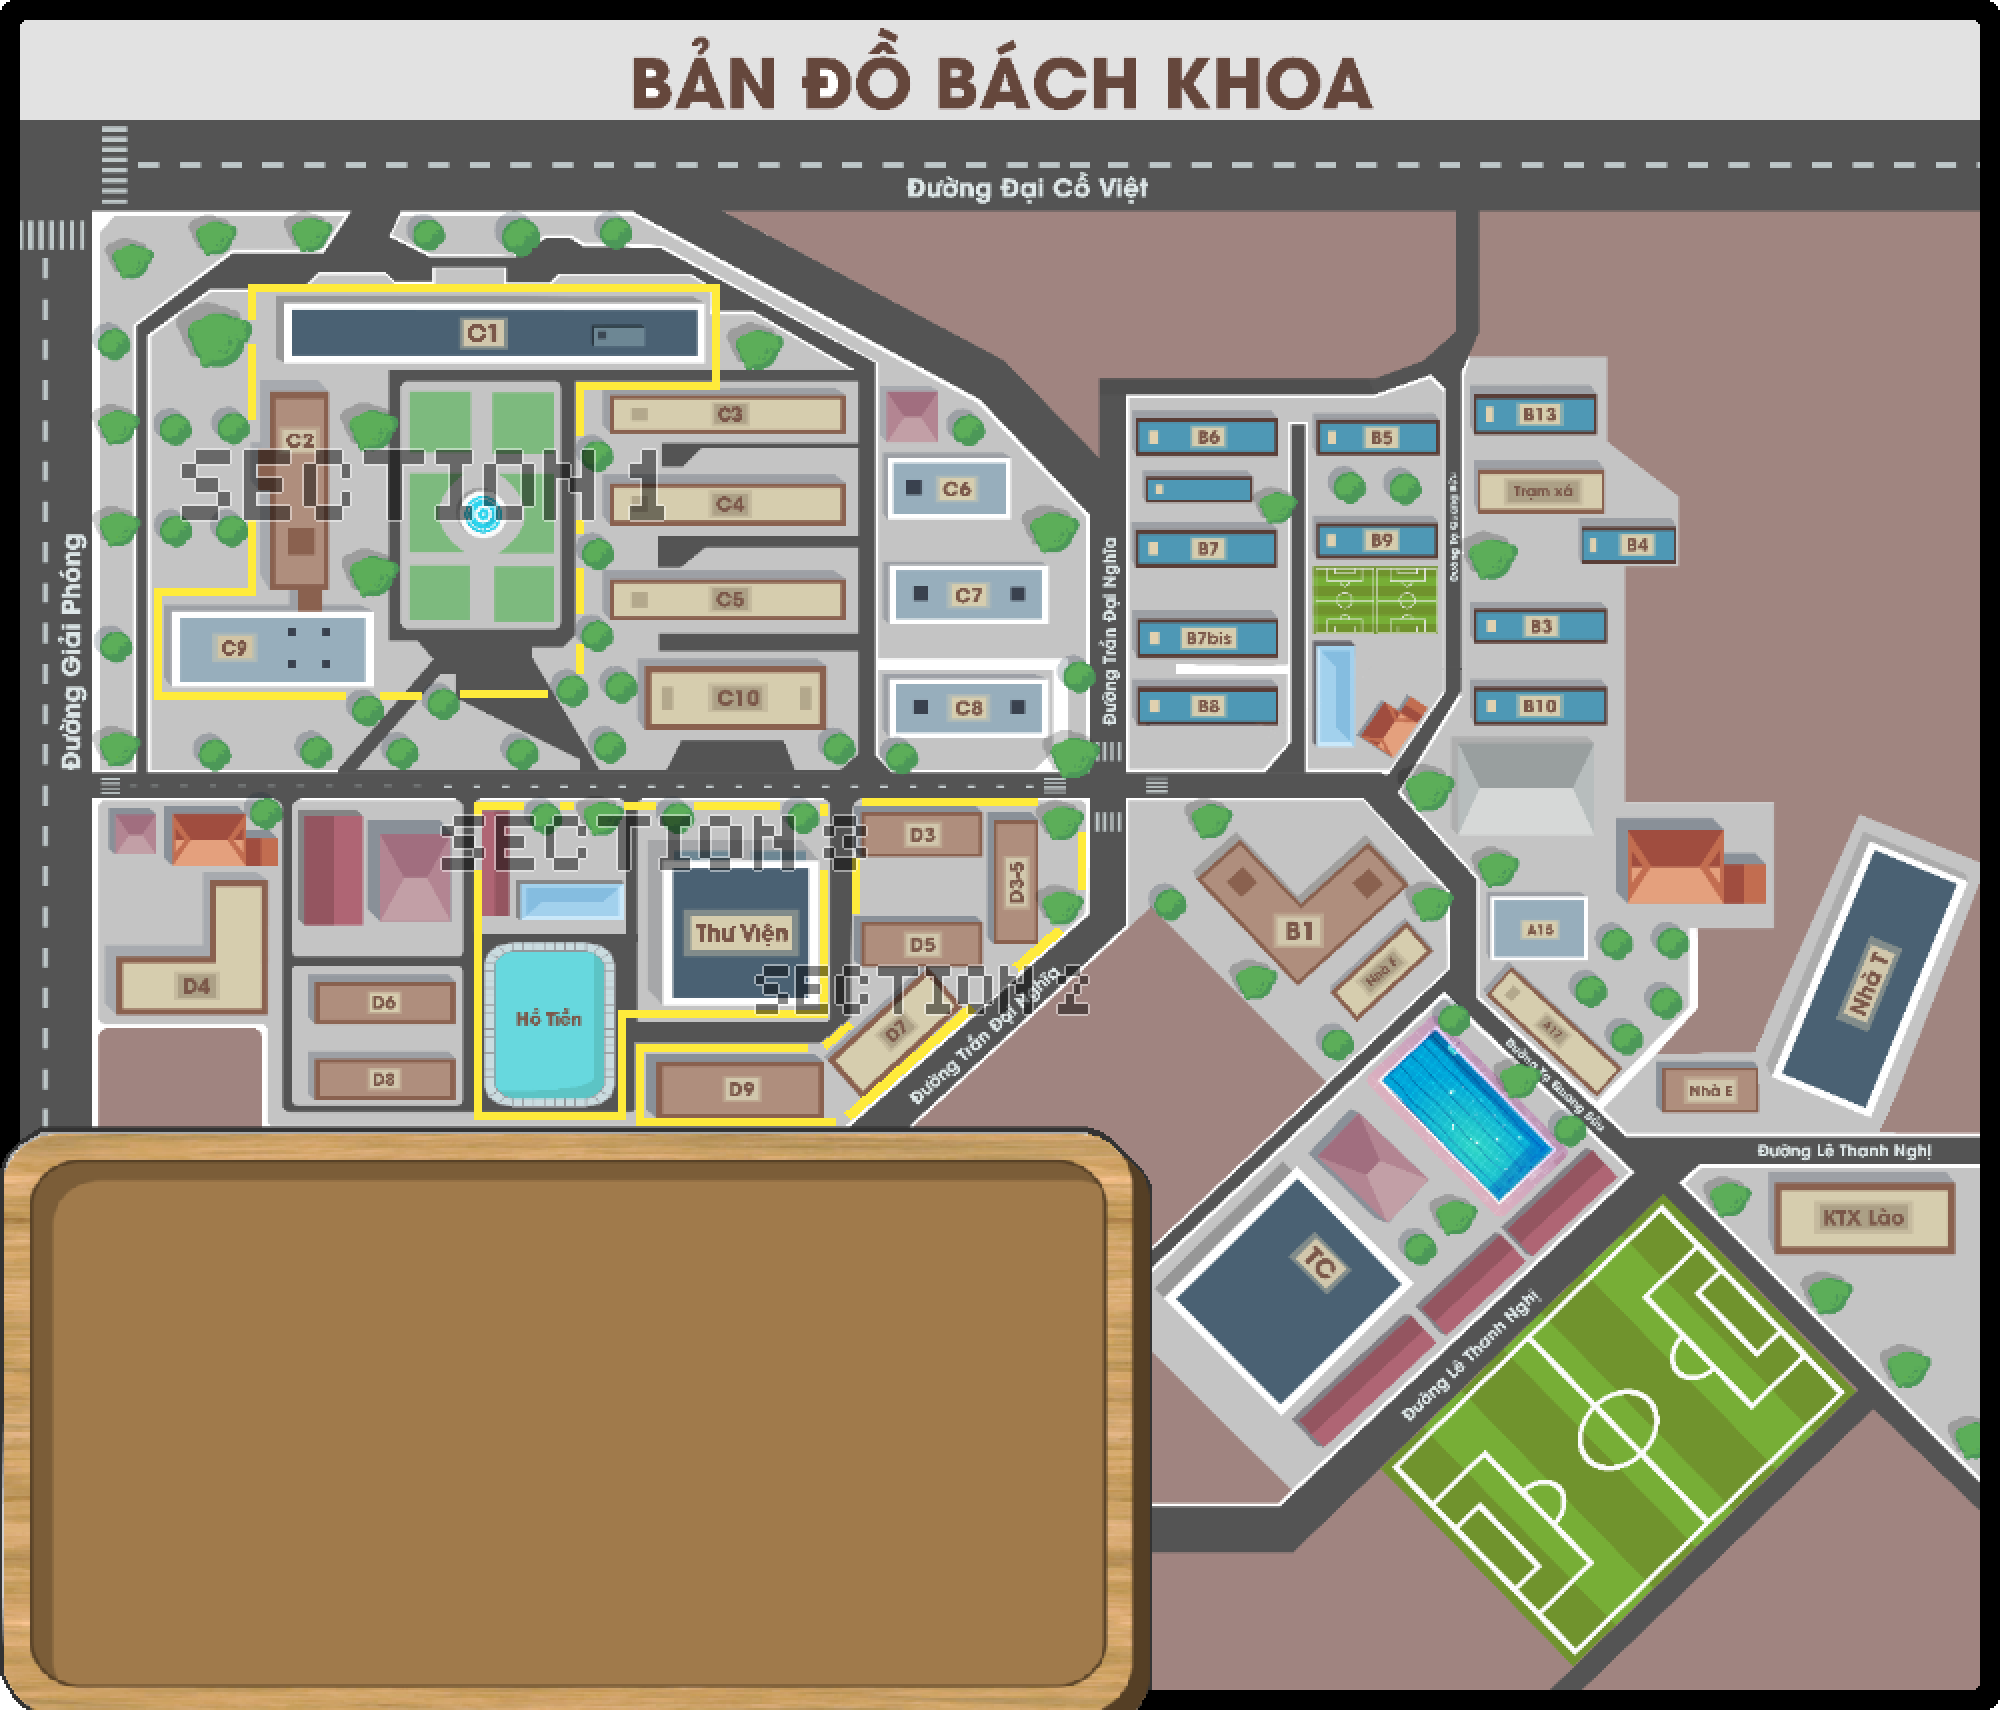
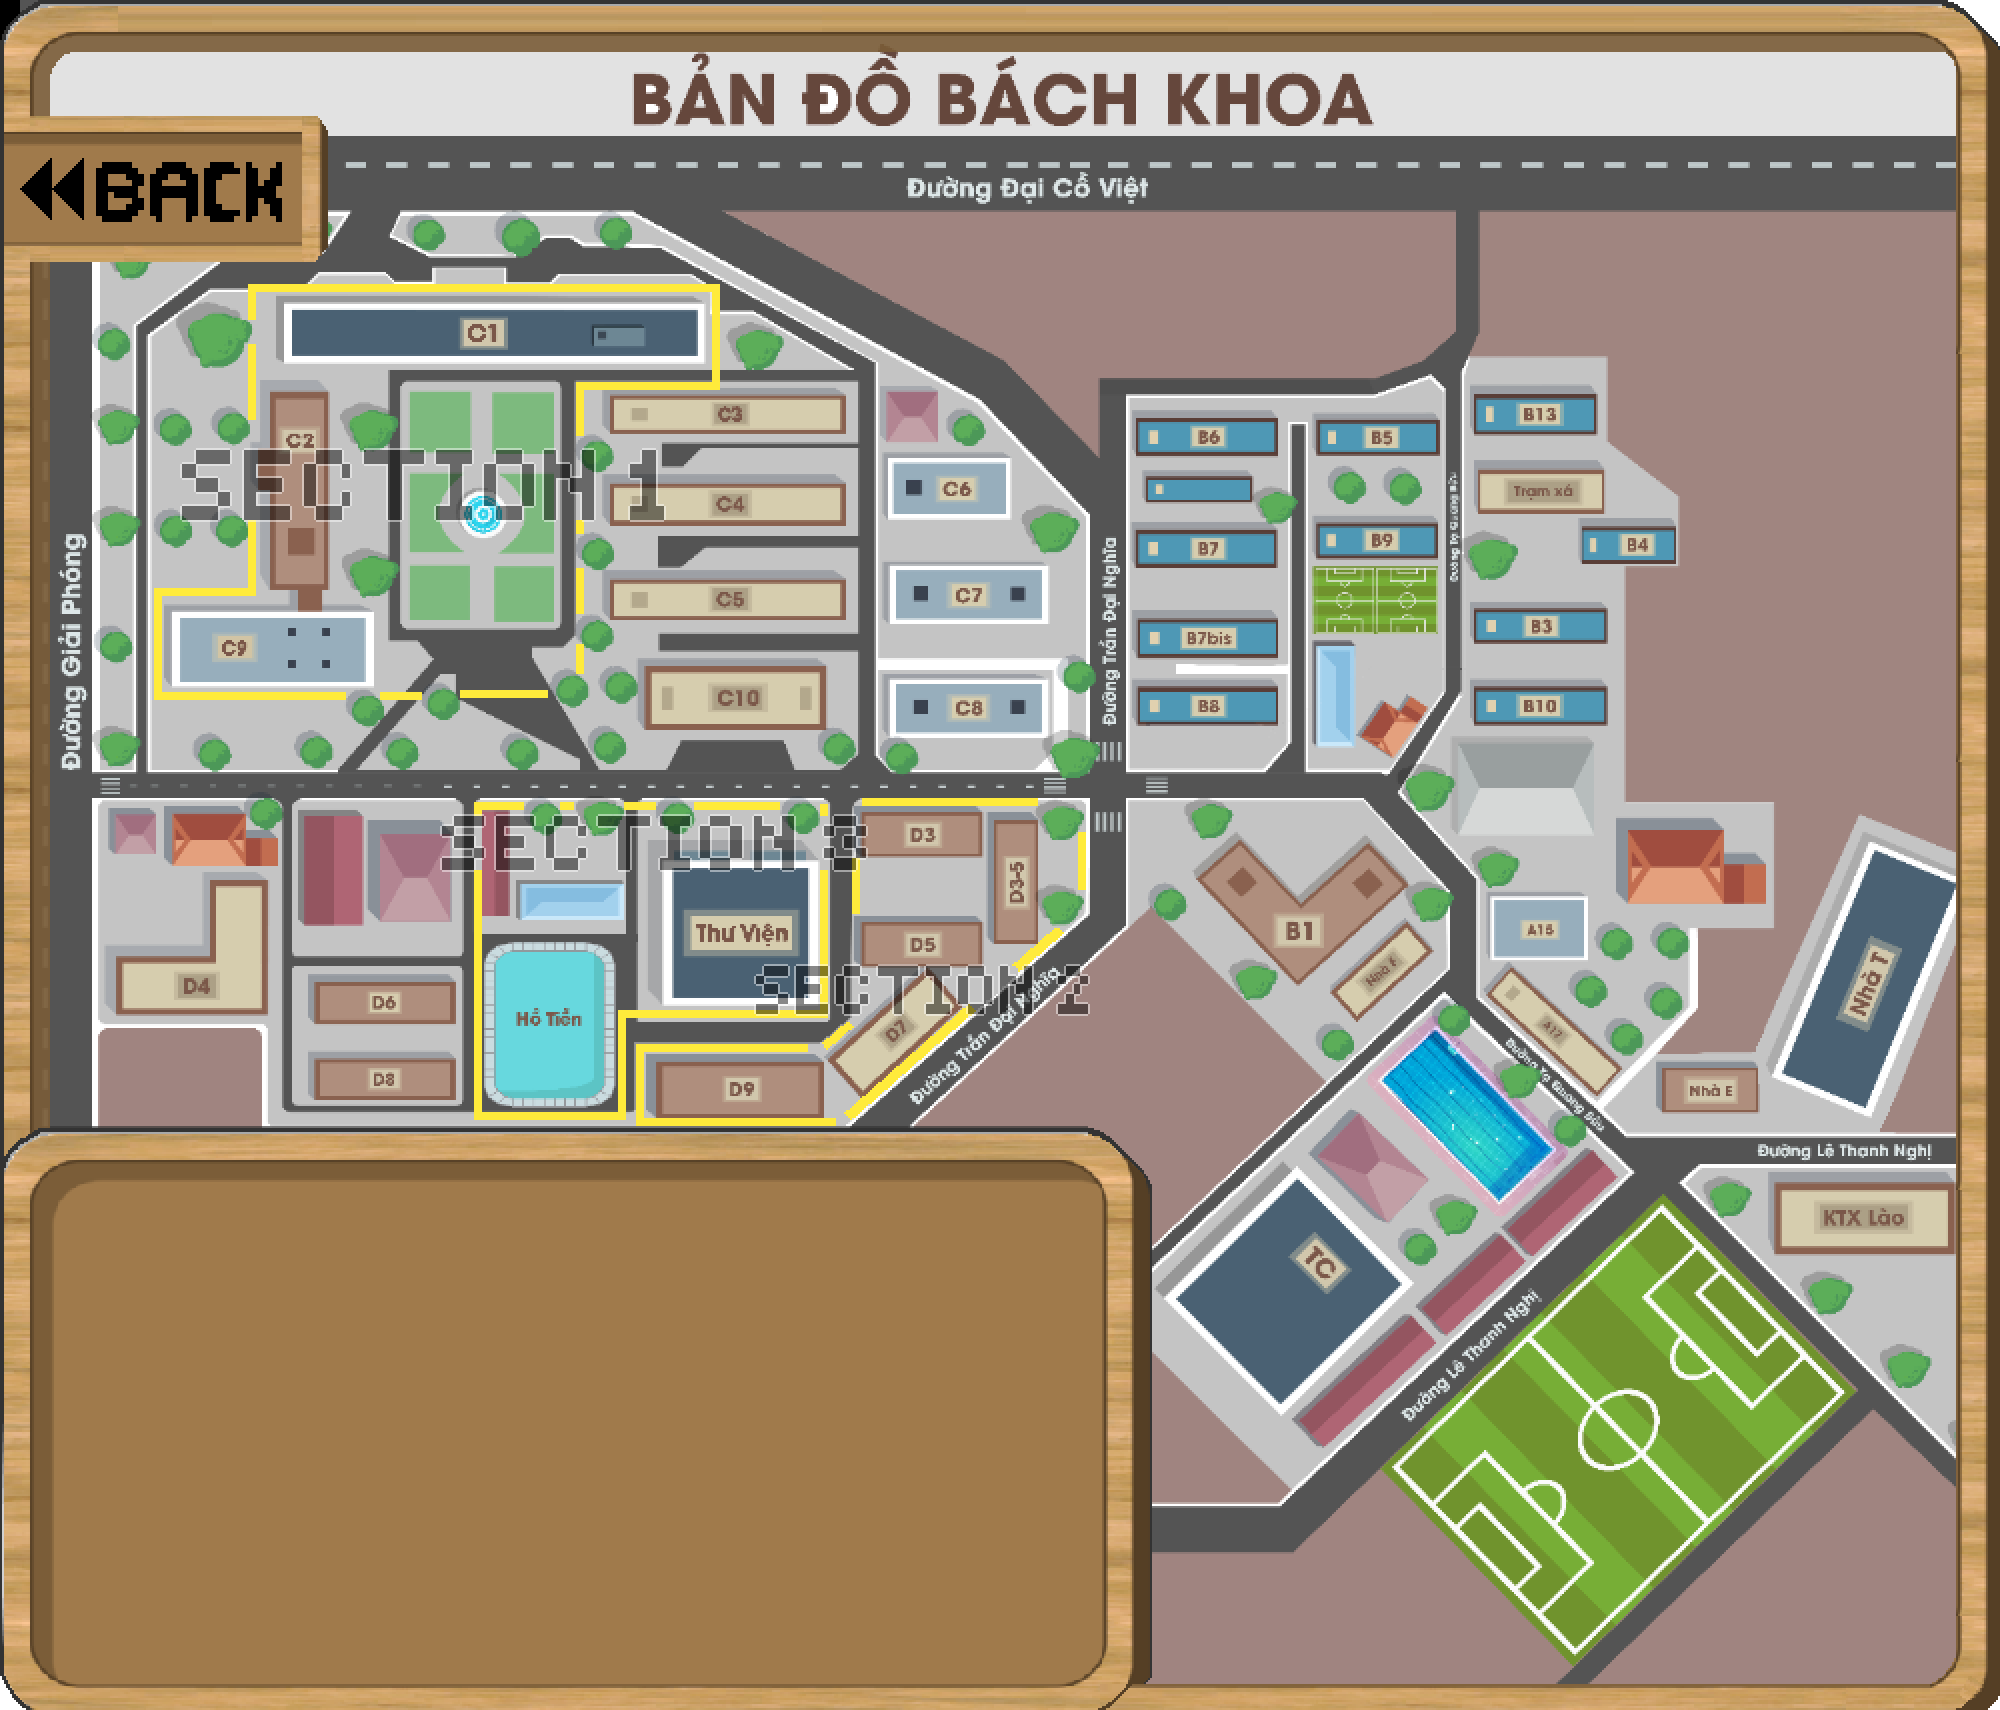
fix bugs

Changed region(s): [[0.0, 0.0, 1.0, 1.0]]

diff --git a/src/section_selection/Section_selection.java b/src/section_selection/Section_selection.java
@@ -9,6 +9,7 @@ import javax.imageio.ImageIO;
 import java.io.*;
 
 import main.GamePanel;
+import main.Main;
 import section_selection.shape.*;
 
 public class Section_selection {
@@ -18,13 +19,15 @@ public class Section_selection {
     double scale_X, scale_Y;
 
     StatusPanel statusPanel = new StatusPanel(this);
+    Button backButton = new Button(this);
 
     public Section_selection(GamePanel gamePanel) {
         this.gamePanel = gamePanel;
         LoadImage();
         LoadMap();
-        Scale((double) gamePanel.screenWidth / background.getWidth(),
-                (double) gamePanel.screenHeight / background.getHeight());
+        LoadButton();
+        Scale((double) GamePanel.screenWidth / background.getWidth(),
+                (double) GamePanel.screenHeight / background.getHeight());
         // Scale(1.0 / 2, 1.0 / 2);
 
     }
@@ -38,19 +41,27 @@ public class Section_selection {
 
     }
 
+    private void LoadButton(){
+        backButton.add_Hitbox(new Shape(1, 114, 331, 147));
+        backButton.set_Boder(new Shape(1, 114, 331, 147));
+        backButton.set_Tag("BackButton");
+
+    }
+
     private void LoadMap() {
         try {
             BufferedReader source = new BufferedReader(new InputStreamReader(new FileInputStream("src/txt/areas.txt")));
             while (true) {
 
-                Section section = new Section(this);
                 String tag = source.readLine();
+                Section section = new Section(this);
 
                 if (tag.length() == 0) {
                     break;
                 } else {
                     sections.add(section);
                     section.set_Tag(tag);
+
                     boolean next = true;
                     while (next) {
                         String line = source.readLine();
@@ -105,6 +116,7 @@ public class Section_selection {
         }
 
         statusPanel.scale(scale_X, scale_Y);
+        backButton.scale(scale_X, scale_Y);
     }
 
     private void HoverCheck(Graphics graphics) {
@@ -113,6 +125,9 @@ public class Section_selection {
             if (section.HoverCheck(gamePanel.mouseManager.mouseCurrentX(), gamePanel.mouseManager.mouseCurrentY())) {
                 section.OnHover(graphics);
             }
+
+        if(backButton.HoverCheck(gamePanel.mouseManager.mouseCurrentX(), gamePanel.mouseManager.mouseCurrentY()))
+            backButton.OnHover(graphics);
     }
 
     private void display(Graphics graphics) {
@@ -139,4 +154,13 @@ public class Section_selection {
         HoverCheck(graphics);
         statusPanel.display(graphics);
     }
+
+    public void open(){
+        Main.pushGameState("Map");
+    }
+
+    public void close(){
+        Main.popGameState();
+    }
+
 }

diff --git a/src/main/GamePanel.java b/src/main/GamePanel.java
@@ -154,7 +154,7 @@ public class GamePanel extends JPanel implements Runnable {
 
             case 3: {
                 if (Main.GameState.empty() || !Main.topGameState().equals("GamePlay"))
-                    Main.pushGameState("GamePlay");
+                    Main.pushGameState("Section");
                 currentMap = section_1;
                 break;
             }
@@ -191,13 +191,13 @@ public class GamePanel extends JPanel implements Runnable {
             }
             case 9: {
                 if (Main.GameState.empty() || !Main.topGameState().equals("GamePlay"))
-                    Main.pushGameState("GamePlay");
+                    Main.pushGameState("Gameplay");
                 currentMap = section_3;
                 break;
             }
             case 10: {
                 if (Main.GameState.empty() || !Main.topGameState().equals("GamePlay"))
-                    Main.pushGameState("GamePlay");
+                    Main.pushGameState("Gameplay");
                 currentMap = section_2;
                 break;
             }
@@ -357,6 +357,10 @@ public class GamePanel extends JPanel implements Runnable {
                     loadGame.draw(g2);
                 break;
             }
+
+            case 3:{
+                section_selection.operation(g);
+            }
         }
 
         if (Main.topGameState().equals("GamePlay") || Main.topGameState().equals("Dialog")
@@ -370,6 +374,12 @@ public class GamePanel extends JPanel implements Runnable {
             }
             ui.draw(g2);
         }
+
+
+        if (Main.topGameState().equals("Map")){
+            section_selection.operation(g);
+        }
+        
         g2.dispose();
     }
     public void drawMap(Graphics2D g2) {
@@ -394,6 +404,7 @@ public class GamePanel extends JPanel implements Runnable {
         if (currentMap == section_3) {
             section_3.draw(g2);
         }
+
     }
     public void newGame() {
         currentMap = myRoom;

diff --git a/src/section_selection/Section.java b/src/section_selection/Section.java
@@ -5,6 +5,9 @@ import java.util.Vector;
 import section_selection.shape.*;
 import java.awt.image.BufferedImage;
 import javax.imageio.ImageIO;
+
+import Mouse.MouseManager;
+
 import java.io.*;
 
 
@@ -74,7 +77,15 @@ class Section {
     protected void OnHover(Graphics graphics){
         section_selection.statusPanel.setHoverOn(this);
         graphics.drawImage(HoverImg, 0, 0, (int)(HoverImg.getWidth() * section_selection.scale_X), (int)(HoverImg.getHeight() * section_selection.scale_Y), null);
+        if(MouseManager.isLeftMouseClick)
+            OnClick();
     }
+
+
+    private void OnClick(){
+
+    } 
+
 
     protected void display(Graphics graphics){
         for(Shape shape : hitboxs){

diff --git a/src/main/Main.java b/src/main/Main.java
@@ -24,7 +24,7 @@ public class Main {
     public static double ey = 1;
     public static Stack<String> GameState = new Stack<>();
     public static String[] states = { "MainMenu", "PlayMenu", "Setting", "AudioSetting", "KeySetting", "VideoSetting",
-            "Tutorial", "GamePlay", "GamePause", "Dialogue", "Inventory", "Dialog", "LoadGame" };
+            "Tutorial", "GamePlay", "GamePause", "Dialogue", "Inventory", "Dialog", "LoadGame", "Map", "Section" };
 
     public static void pushGameState(String a) {
         GameState.push(a);

diff --git a/src/section_selection/Button.java b/src/section_selection/Button.java
@@ -1,0 +1,14 @@
+package section_selection;
+
+public class Button extends Section {
+    
+    public Button(Section_selection section_selection)  {
+        super(section_selection);
+
+    }
+
+    public void OnClick(){
+        section_selection.close();
+    
+    }
+}
